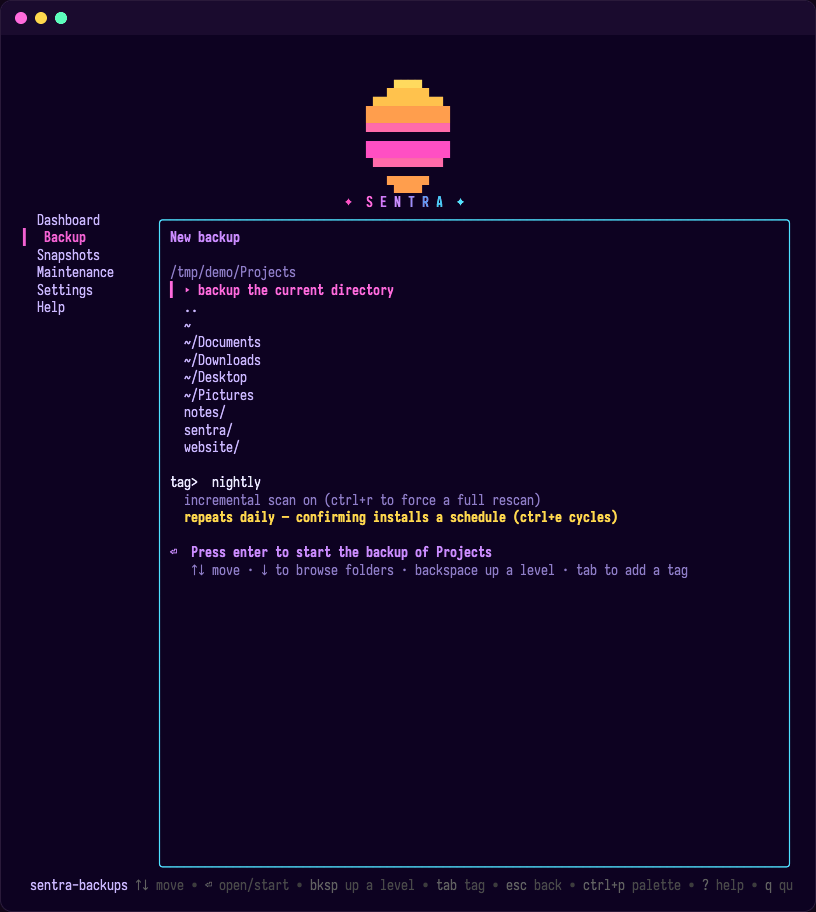
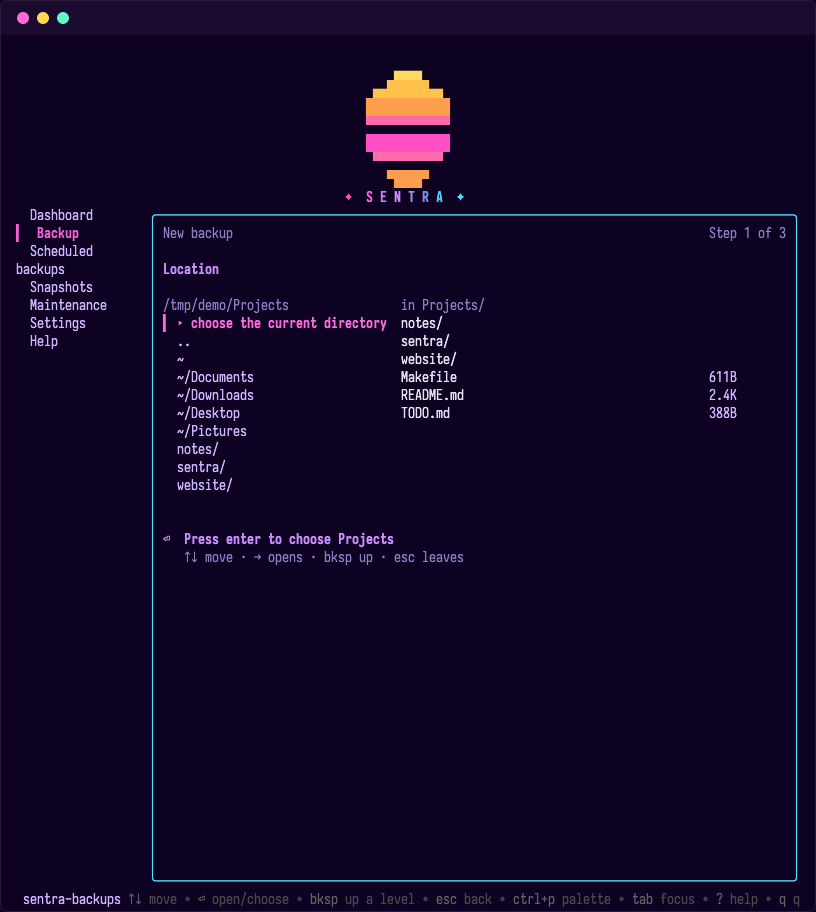
docs: regenerate the Backup screenshot for the wizard
backup.png still showed the pre-wizard screen — a tag field and a
"repeats daily" line under the picker. It now shows the wizard's
Location step from the live code: the seven-view rail, "Step 1 of 3",
the folder picker with jump-to places, and the preview pane beside it.
A second shot, backup-schedule.png, shows the Schedule step's cadence
list with the prefilled policy name and time, added as a third row of
the tour table; the Backup caption now describes the three steps.

Same pipeline as the other shots: in-package render at 112x48 under a
TrueColor profile, ANSI to HTML with Iosevka Fixed Curly, Playwright
element screenshot at CSS scale, then quantized to 256 colors. No Go
code changed.

diff --git a/README.md b/README.md
@@ -56,7 +56,7 @@ built-in agent that audits your repository and surfaces recommendations.
     </td>
     <td width="50%" valign="top" align="center">
       <img src="docs/screenshots/backup.png" alt="Backup wizard, step 1: folder picker with jump-to places and the live preview pane.">
-      <br><sub><b>Backup</b> — pick a folder (with jump-to places), tag it, and arm a daily/weekly/monthly schedule.</sub>
+      <br><sub><b>Backup</b> — a three-step wizard: pick a folder (with jump-to places), choose a schedule, confirm with a tag.</sub>
     </td>
   </tr>
   <tr>
@@ -67,6 +67,12 @@ built-in agent that audits your repository and surfaces recommendations.
     <td width="50%" valign="top" align="center">
       <img src="docs/screenshots/settings.png" alt="Settings view: bucket, prefix, region and keyring readouts plus scheduled backups, recovery kit, passphrase rotation, and re-run setup.">
       <br><sub><b>Settings</b> — config summary plus scheduled backups, recovery kit, passphrase, and setup.</sub>
+    </td>
+  </tr>
+  <tr>
+    <td colspan="2" valign="top" align="center">
+      <img src="docs/screenshots/backup-schedule.png" width="50%" alt="Backup wizard, step 2: a cadence list (one-shot, hourly, daily, weekly, monthly) with daily selected, and prefilled policy name and time fields.">
+      <br><sub><b>Backup, step 2</b> — one-shot, or a cadence that installs a named policy and an OS timer; it then shows up under Scheduled backups.</sub>
     </td>
   </tr>
 </table>
